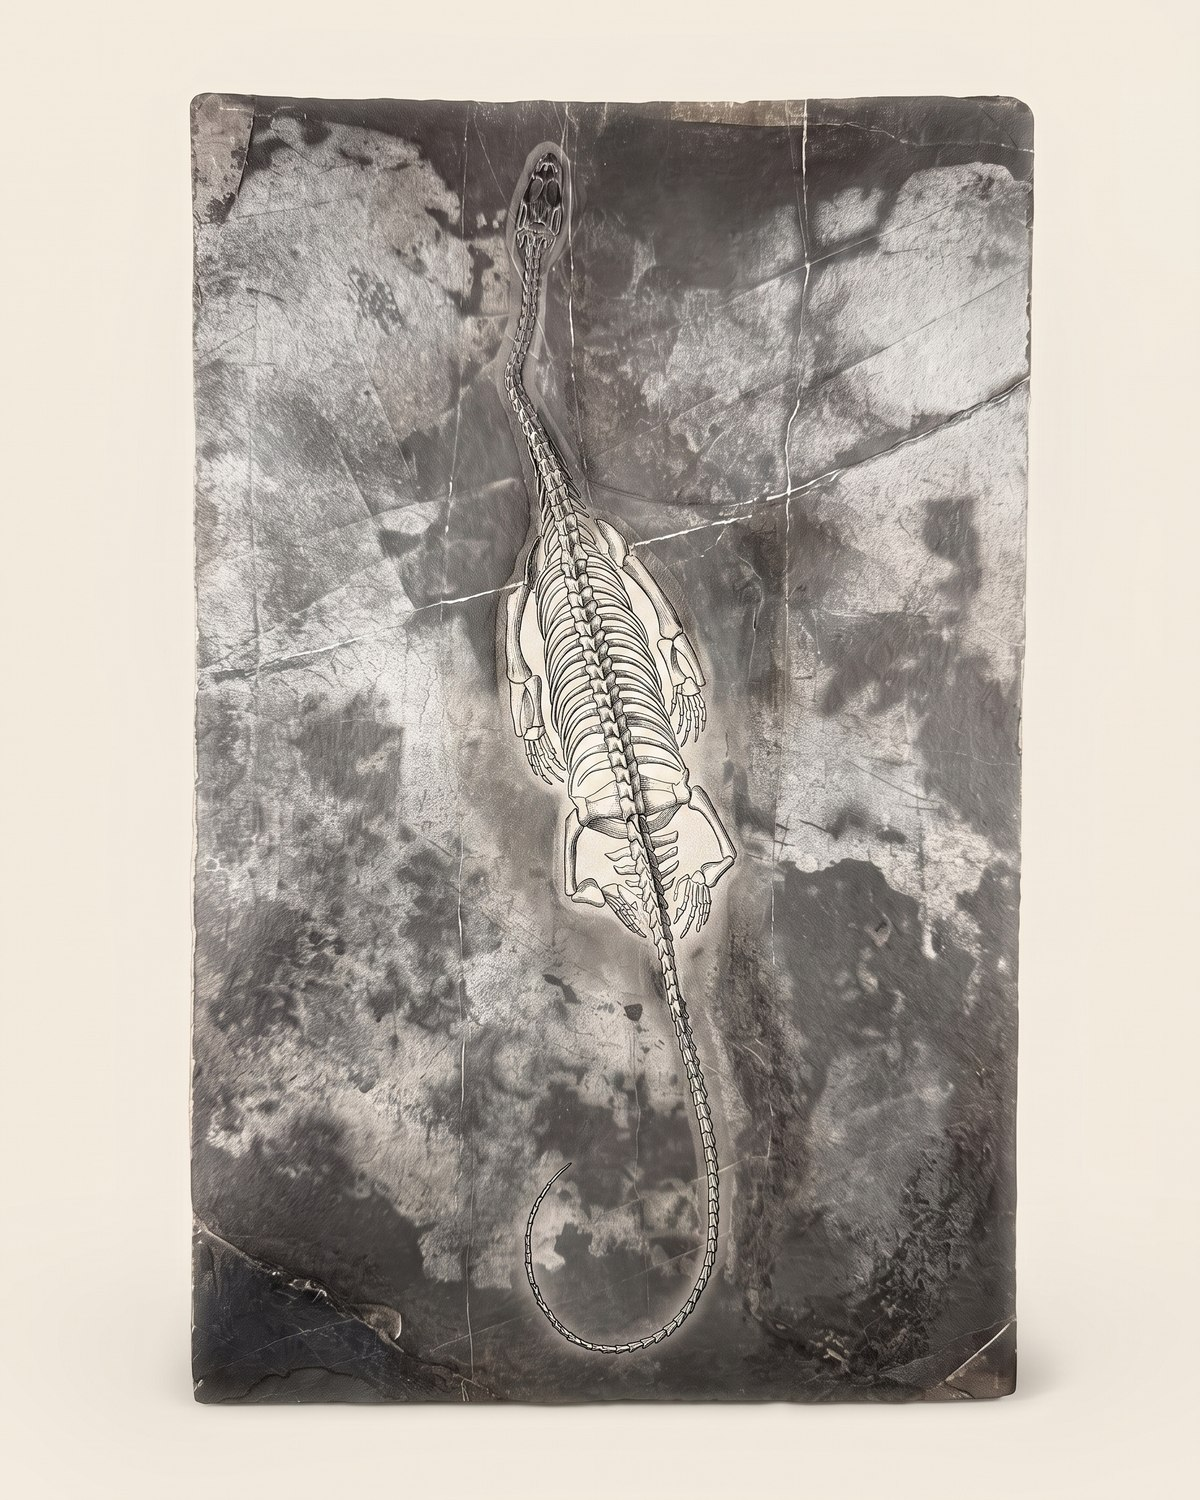
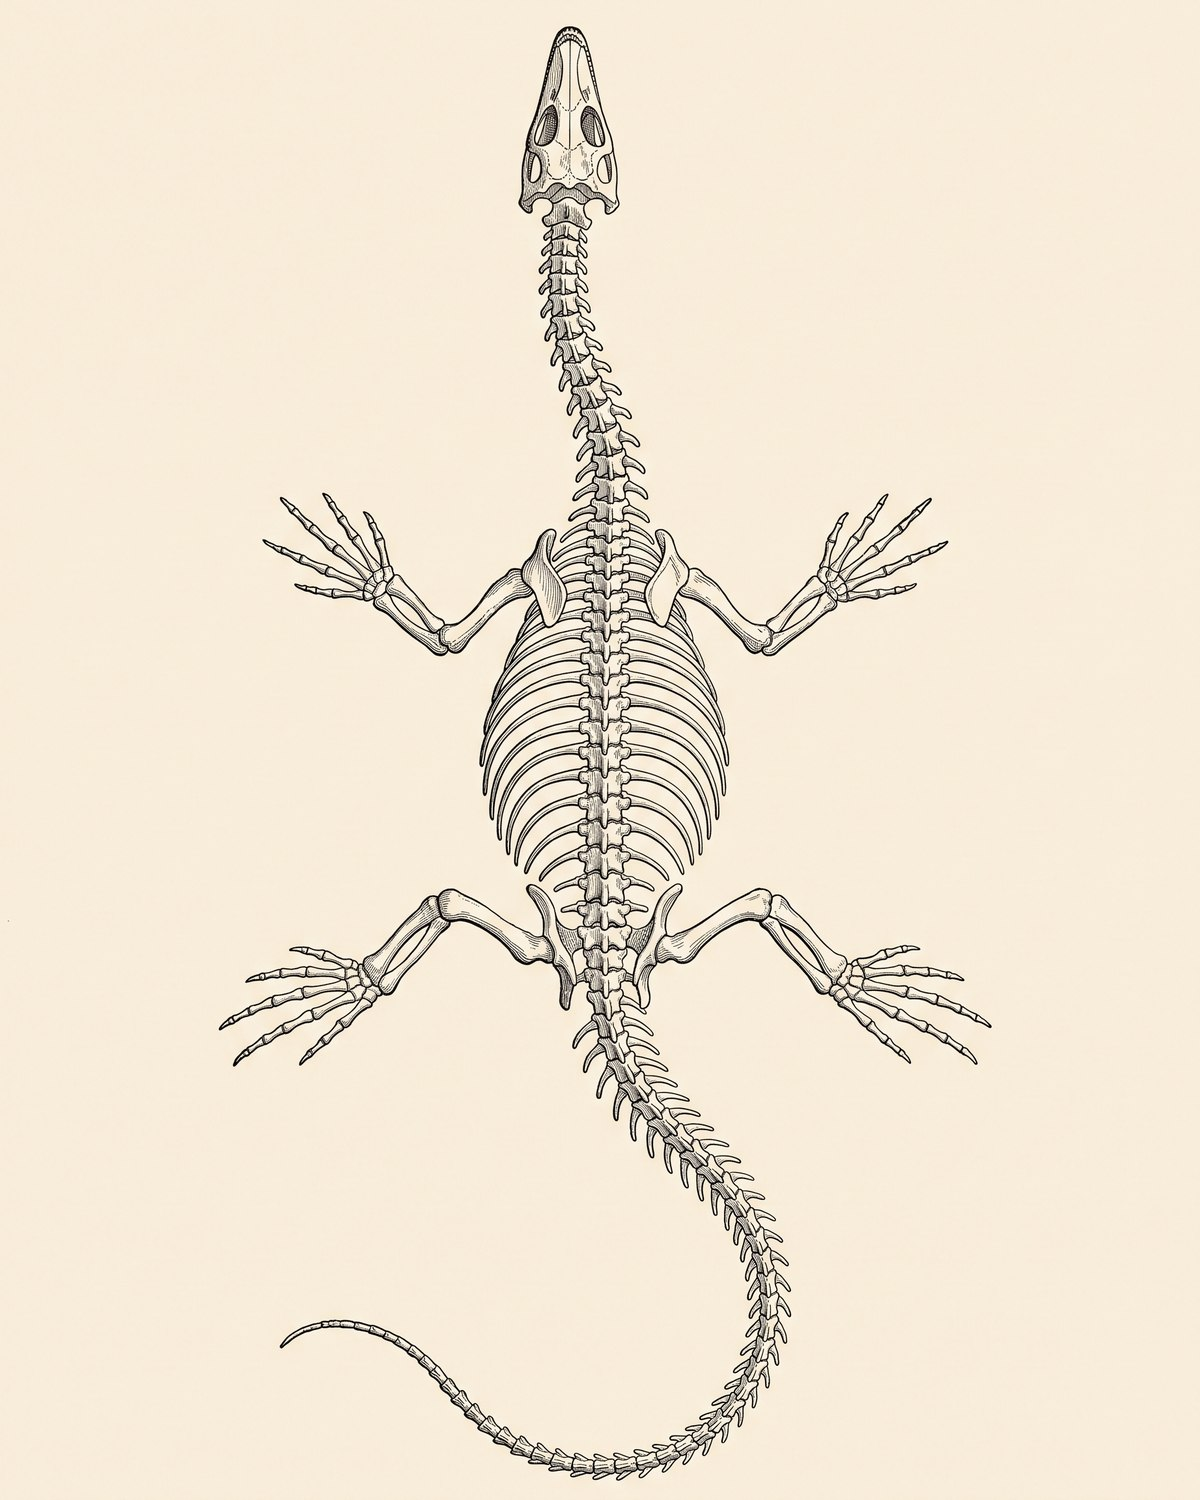
Слайдер: поп-ап поверх шапки, кейхозавр — чертёж без плиты и точная поза
Поп-ап лежал под шапкой (z-index 90 против 100 у навигации) — поднят на
300 и поджат по высоте: кадр 60vh, дорожка рычажка больше не режется
нижним краем экрана.

Кейхозавр: анатомический чертёж перегенерирован чистым — скелет на
ивори-бумаге, без плиты. Плита пролезала через любой img2img (модель
держится за фон референса, три попытки), сработал только текстовый
промпт без изображения. Реконструкция при жизни переснята с построчным
описанием позы ископаемого: шея влево от оси, ласты под углами плиты,
хвост вправо с подворотом кончика влево — зеркалирование ушло.

diff --git a/16_product_promos/exhibit.html b/16_product_promos/exhibit.html
@@ -104,9 +104,9 @@ a{color:inherit;text-decoration:none}
 .cmp .marks{display:flex;justify-content:space-between;font-size:10px;letter-spacing:.2em;text-transform:uppercase;color:var(--deep);margin-top:6px}
 .cmp .marks b{font-weight:400;color:var(--black)}
 /* полноэкранный просмотр */
-.cmp-pop{position:fixed;inset:0;z-index:90;background:rgba(10,9,8,.94);display:none;place-items:center;padding:4vh 4vw}
+.cmp-pop{position:fixed;inset:0;z-index:300;background:rgba(10,9,8,.94);display:none;place-items:center;padding:4vh 4vw}
 .cmp-pop.on{display:grid}
-.cmp-pop .box{width:min(72vh,92vw);max-width:680px}
+.cmp-pop .box{width:min(60vh,92vw);max-width:680px}  /* 60vh × 5/4 кадр + рычажок + поля = ~92vh, дорожка не режется */
 .cmp-pop .frame{cursor:default}
 .cmp-pop .x{position:absolute;top:18px;right:22px;background:none;border:none;color:var(--mist,#B9B2A6);font-size:30px;line-height:1;cursor:pointer;padding:8px}
 .cmp-pop .x:hover{color:var(--bone,#FBF8F1)}
